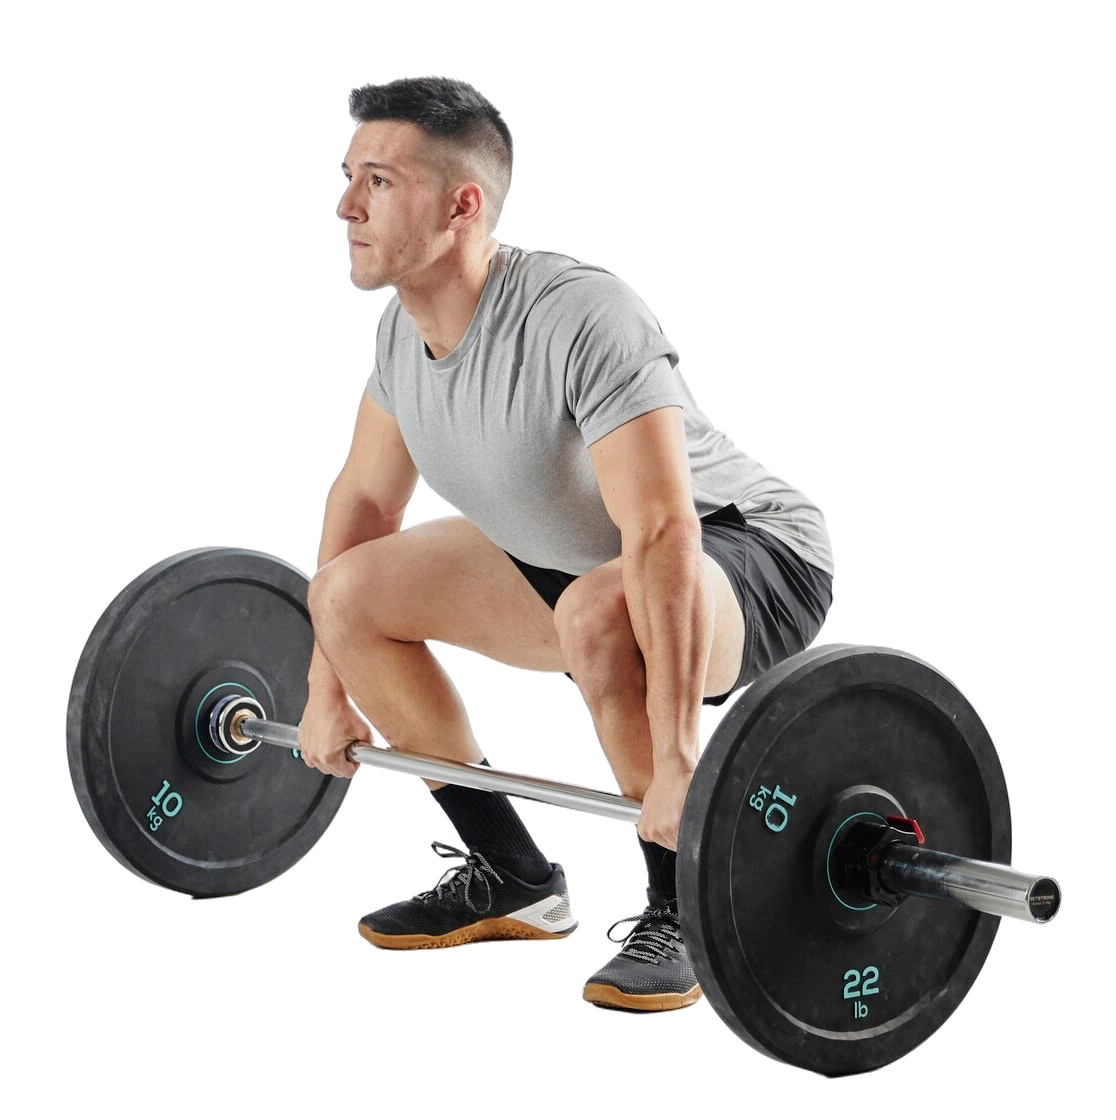
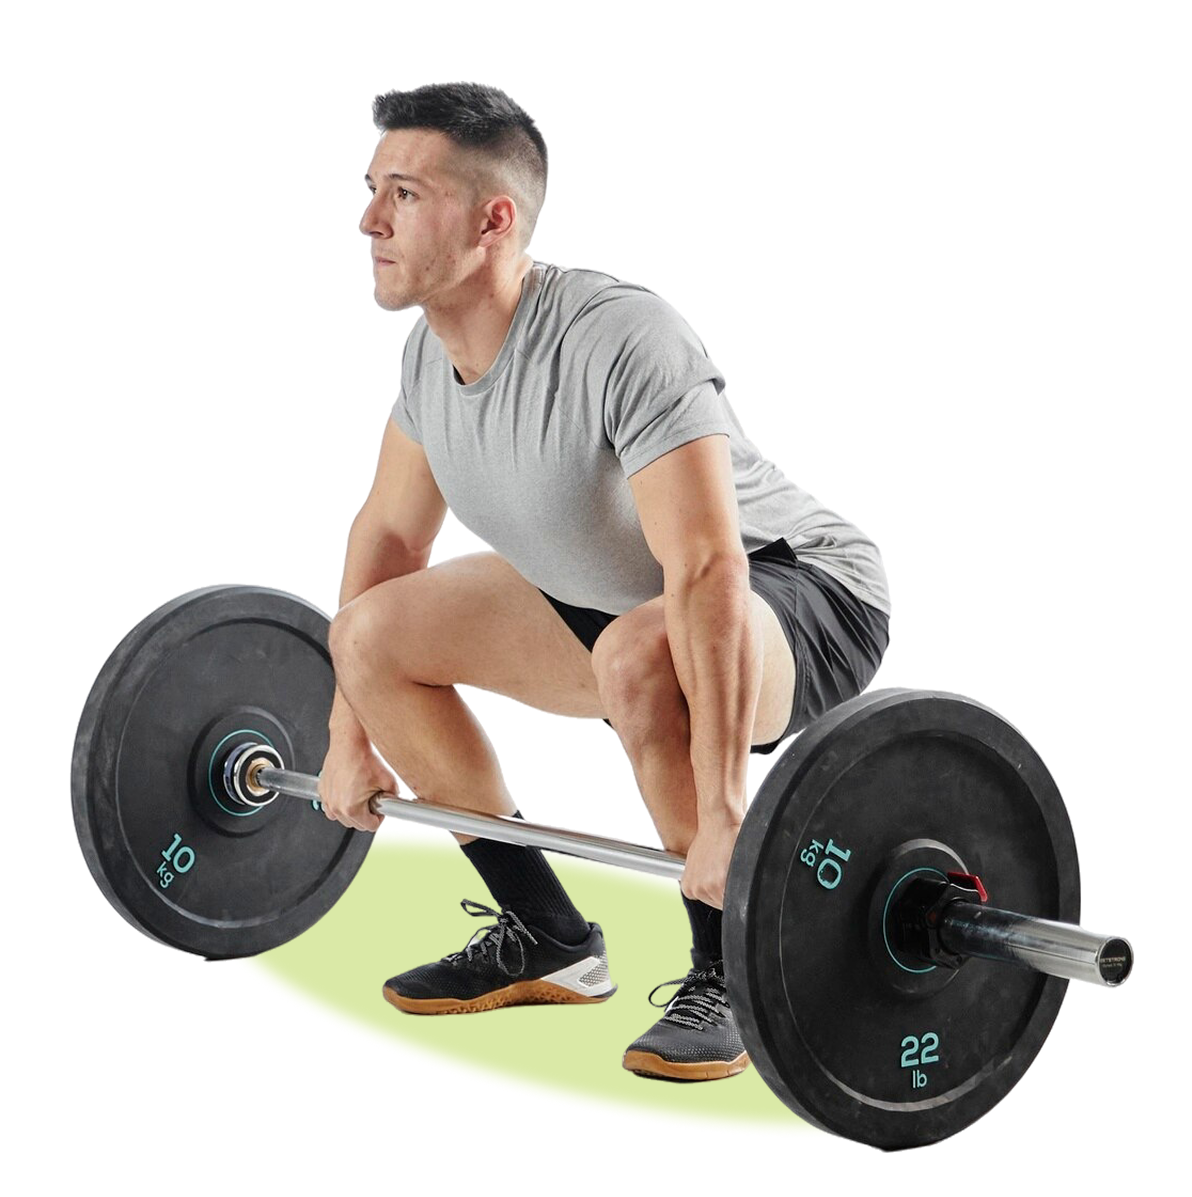
홈페이지 css 완료

Changed region(s): [[0.2133, 0.6875, 0.6703, 0.9688]]

diff --git a/src/pages/baiscInfo/Home.tsx b/src/pages/baiscInfo/Home.tsx
@@ -6,6 +6,11 @@ import { useNavigate } from 'react-router-dom';
 import Man2 from '../../assets/images/homepage/man2.png';
 import Girl1 from '../../assets/images/homepage/girl1.png';
 import Man1 from '../../assets/images/homepage/man1.png';
+import Rectangle1 from '../../assets/images/homepage/Rectangle1.png';
+import Rectangle2 from '../../assets/images/homepage/Rectangle2.png';
+import Rectangle3 from '../../assets/images/homepage/Rectangle3.png';
+import Rectangle4 from '../../assets/images/homepage/Rectangle4.png';
+import Rectangle5 from '../../assets/images/homepage/Rectangle5.png';
 
 const HomeContainer = styled.div`
   width: 3840px;
@@ -78,7 +83,6 @@ const Girl1Image = styled.img`
   left: 2620.41px;
   top: 343.13px;
   object-fit: contain;
-  transform: scaleX(-1);
   pointer-events: none;
 `;
 
@@ -92,68 +96,65 @@ const Man1Image = styled.img`
   pointer-events: none;
 `;
 
-const DiagonalBg1 = styled.div`
+const RectangleBlur1 = styled.div`
   position: absolute;
-  width: 1377.5px;  
-  height: 1919px;  
-  left: 1133px;
+  width: 1377.5009765625px;
+  height: 1919px;
   top: -273px;
-  background: linear-gradient(225deg, #F2FFCD -11.87%, rgba(255, 255, 255, 0) 85.56%);
+  left: 1133px;
 `;
-const DiagonalBg2 = styled.div`
+
+const RectangleBlur2 = styled.div`
   position: absolute;
-  width: 1583.5px;
-  height: 40px;
-  left: 1438px;
-  top: 400px;
-  background: radial-gradient(50% 50% at 50% 50%, #E4FD9F 0%, rgba(242,255,205,0) 100%);
-  opacity: 0.5;
-  transform: rotate(-25deg);
-  z-index: 0;
+  width: 1583.498046875px;
+  height: 1914px;
+  top: -484.5px;
+  left: 1638px;
 `;
-const DiagonalBg3 = styled.div`
+
+const RectangleBlur3 = styled.div`
   position: absolute;
-  width: 2986.5px;
-  height: 40px;
+  width: 2986.49853515625px;
+  height: 2395px;
+  top: -101.5px;
   left: 1225px;
-  top: 600px;
-  background: radial-gradient(88.04% 88.04% at 56.57% 41.67%, #F2FFCD 0%, rgba(210,248,104,0) 100%);
-  opacity: 0.4;
-  transform: rotate(-25deg);
-  z-index: 0;
 `;
-const DiagonalBg4 = styled.div`
+
+const RectangleBlur4 = styled.div`
   position: absolute;
-  width: 1583.5px;
-  height: 40px;
+  width: 1583.498046875px;
+  height: 1914px;
+  top: 588px;
   left: 2561px;
-  top: 800px;
-  background: radial-gradient(100% 100% at 91.22% 0%, #E4FD9F 0%, rgba(242,255,205,0) 95.13%);
-  opacity: 0.4;
-  transform: rotate(-25deg);
-  z-index: 0;
 `;
-const DiagonalBg5 = styled.div`
+
+const RectangleBlur5 = styled.div`
   position: absolute;
-  width: 1315.94px;
-  height: 40px;
+  width: 1315.9415283203125px;
+  height: 1919px;
+  top: 65px;
   left: 3282px;
-  top: 1000px;
-  background: radial-gradient(39.24% 39.24% at 50% 50%, #F2FFCD 0%, rgba(255,255,255,0) 100%);
-  opacity: 0.3;
-  transform: rotate(-25deg);
-  z-index: 0;
 `;
 
 const Home = () => {
   const navigate = useNavigate();
   return (
     <HomeContainer>
-      <DiagonalBg1 />
-      <DiagonalBg2 />
-      <DiagonalBg3 />
-      <DiagonalBg4 />
-      <DiagonalBg5 />
+      <RectangleBlur1>
+        <img src={Rectangle1} alt="Rectangle1"/>
+      </RectangleBlur1>
+      <RectangleBlur2>
+        <img src={Rectangle2} alt="Rectangle2"/>
+      </RectangleBlur2>
+      <RectangleBlur3>
+        <img src={Rectangle3} alt="Rectangle3"/>
+      </RectangleBlur3>
+      <RectangleBlur4>
+        <img src={Rectangle4} alt="Rectangle4"/>
+      </RectangleBlur4>
+      <RectangleBlur5>
+        <img src={Rectangle5} alt="Rectangle5"/>
+      </RectangleBlur5>
       <MainBox>
         <TitleContainer>
           <Logo />
